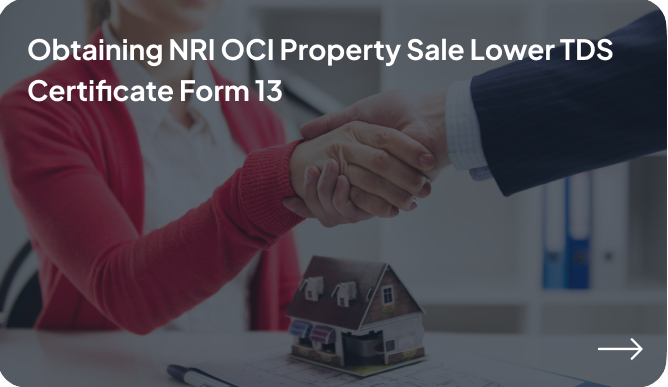
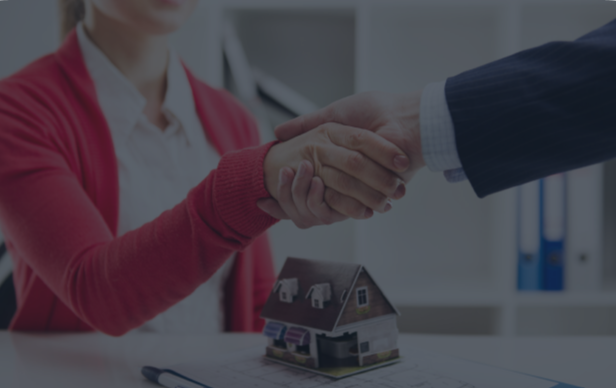
done

diff --git a/src/Components/Home.jsx b/src/Components/Home.jsx
@@ -136,21 +136,65 @@ const OfficeData = [
 
       <div className="thebelowgridimage">
         <div className="theupperrowfortheview block lg:flex items-center gap-7">
-            <div className="harkuch"><img src="first.png" alt="firstimg" className="thefirst "/></div>
-            <div className="cbelowjedd"><img src="second.png" alt="firstimg" className="thesecond"/></div>
+            <div className="harkuch relative">
+                <img src="first.png" alt="firstimg" className="thefirst "/>
+                <div className="theaboslutedivprnt p-8 absolute h-full flex flex-col justify-between top-0">
+                    <p className="theupperabsolutetext">
+                    Taxability of Returning NRIs, OCIs, PIOs And Foreign Citizens Coming To India
+                    </p>
+                    <div className="lowerdivofarrow text-end text-white text-2xl">
+                        <FontAwesomeIcon icon={faArrowRight} className="canbeanyarrow"/>
+                    </div>
+                </div>
+                </div>
+            <div className="cbelowjedd relative">
+                <img src="second.png" alt="firstimg" className="thesecond"/>
+                <div className="theaboslutedivprnt p-8 absolute h-full flex flex-col justify-between top-0">
+                    <p className="theupperabsolutetext">
+                    Sale of Properties in India by NRI
+                    </p>
+                    <div className="lowerdivofarrow text-end text-white text-2xl">
+                        <FontAwesomeIcon icon={faArrowRight} className="canbeanyarrow"/>
+                    </div>
+                </div>
+                </div>
         </div>
 
-        <div className="thelowerrowoftheservices block lg:flex gap-7 pt-12 ">
+        <div className="thelowerrowoftheservices block lg:flex gap-7 pt-0 lg:pt-12 ">
             <div className="theleftsideoftherow block lg:flex lg:flex-col gap-7">
-                <div className="theuppertop">
+                <div className="theuppertop relative">
                 <img src="third.png" alt="firstimg" className="thethird"/>
+                <div className="theaboslutedivprnt p-8 absolute h-full flex flex-col justify-between top-0">
+                    <p className="theupperabsolutetext">
+                    Repatriation and remittance
+                    </p>
+                    <div className="lowerdivofarrow text-end text-white text-2xl">
+                        <FontAwesomeIcon icon={faArrowRight} className="canbeanyarrow"/>
+                    </div>
                 </div>
-                <div className="theupperbottom">
+                </div>
+                <div className="theupperbottom relative">
                 <img src="forth.png" alt="firstimg" className="theforth"/>
+                <div className="theaboslutedivprnt p-8 absolute h-full flex flex-col justify-between top-0">
+                    <p className="theupperabsolutetext">
+                    NRI, Non-Resident Income Tax Return Services In India
+                    </p>
+                    <div className="lowerdivofarrow text-end text-white text-2xl">
+                        <FontAwesomeIcon icon={faArrowRight} className="canbeanyarrow"/>
+                    </div>
+                </div>
                 </div>
             </div>
-            <div className="therightsideoftherow">
+            <div className="therightsideoftherow relative">
             <img src="fifth.png" alt="firstimg" className="thefifth"/>
+            <div className="theaboslutedivprnt p-8 absolute h-full flex flex-col justify-between top-0">
+                    <p className="theupperabsolutetext">
+                    Obtaining NRI OCI Property Sale Lower TDS Certificate Form 13
+                    </p>
+                    <div className="lowerdivofarrow text-end text-white text-2xl">
+                        <FontAwesomeIcon icon={faArrowRight} className="canbeanyarrow"/>
+                    </div>
+                </div>
             </div>
         </div>
       </div>

diff --git a/src/Components/Home.css b/src/Components/Home.css
@@ -98,11 +98,11 @@
     line-height: 27.72px;
 }
 
-.servicesbg{
+.servicesbg {
     width: 370px;
 }
 
-.ourservices{
+.ourservices {
     background-color: #F5F5F5;
     padding-top: 50px;
 }
@@ -111,26 +111,38 @@
     flex: 2;
 }
 
-.cbelowjedd{
+.cbelowjedd {
     flex: 1;
 }
 
-.thefirst,.thesecond{
+.thefirst,
+.thesecond {
     width: 100%;
     height: 330px;
 }
 
-.theleftsideoftherow,.therightsideoftherow{
-  flex: 1;
+.theleftsideoftherow,
+.therightsideoftherow {
+    flex: 1;
 }
 
-.thethird,.theforth,.thefifth{
+.thethird,
+.theforth,
+.thefifth {
     width: 100%;
     height: 100%;
 }
 
+.theupperabsolutetext {
+    font-family: Plus Jakarta Sans;
+    font-size: 28px;
+    font-weight: 700;
+    line-height: 41px;
+    color: white;
+}
+
 @media screen and (max-width:1280px) {
-    
+
     .lowerslimbold {
         padding-top: 2rem;
         font-family: Plus Jakarta Sans;
@@ -150,7 +162,7 @@
 }
 
 
-@media screen and (max-width:1024px){
+@media screen and (max-width:1024px) {
 
     .innerbold {
         font-family: Plus Jakarta Sans;
@@ -169,12 +181,12 @@
         color: white;
     }
 
-    .theloweroffieslist{
+    .theloweroffieslist {
         justify-content: center;
     }
 
-    .thebelowgridimage img{
-        padding-top: 1rem;
+    .harkuch ,.cbelowjedd,.theuppertop,.theupperbottom,.therightsideoftherow{
+        margin-top: 1rem;
     }
 
     .backgroundservicesprnt {
@@ -182,7 +194,7 @@
     }
 }
 
-@media screen and (max-width:768px){
+@media screen and (max-width:768px) {
     .lowerslimbold {
         padding-top: 2rem;
         font-family: Plus Jakarta Sans;
@@ -216,9 +228,9 @@
     }
 }
 
-@media screen and (max-width:640px){
+@media screen and (max-width:640px) {
 
-    .lowerslimbold{
+    .lowerslimbold {
         padding-top: 1rem;
         font-family: Plus Jakarta Sans;
         font-size: 8px;
@@ -235,11 +247,12 @@
         font-size: 11px;
     }
 
-    .thecontactustext{
+    .thecontactustext {
         font-size: 8px;
     }
 
-    .aboutusheading,.theotherlowersmalltext  {
+    .aboutusheading,
+    .theotherlowersmalltext {
         font-family: Plus Jakarta Sans;
         font-size: 18px;
         font-weight: 400;
@@ -250,12 +263,12 @@
         gap: 0.25rem;
     }
 
-    .teammembername{
+    .teammembername {
         font-size: 18px;
         line-height: 20.3px;
     }
 
-    .teammemberdesignation{
+    .teammemberdesignation {
         font-size: 14px;
     }
 
@@ -269,4 +282,24 @@
     .backgroundservicesprnt {
         width: 100%;
     }
+
+    .theupperabsolutetext {
+        font-family: Plus Jakarta Sans;
+        font-size: 20px;
+        font-weight: 700;
+        line-height: 27px;
+        color: white;
+    }
+}
+
+.harkuch ,.cbelowjedd,.theuppertop,.theupperbottom,.therightsideoftherow{
+    border-radius: 1.5rem;
+    overflow: hidden;
+}
+
+
+
+
+.theaboslutedivprnt{
+    width: 100%;
 }
